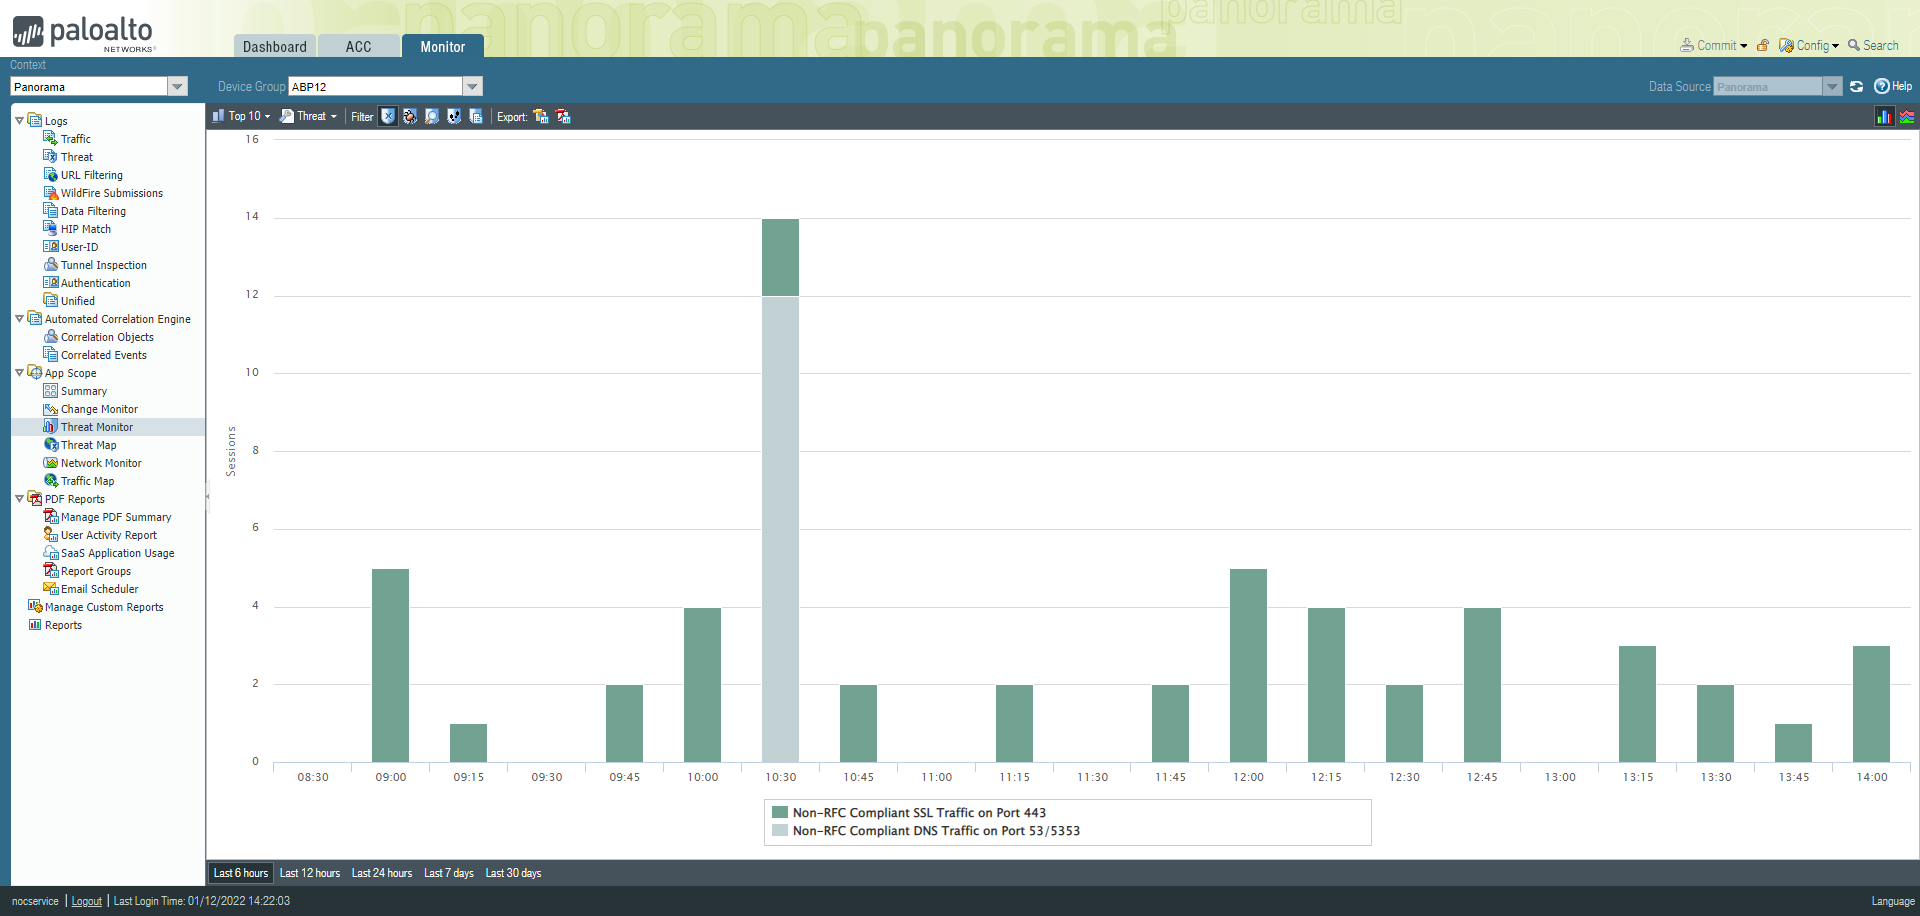
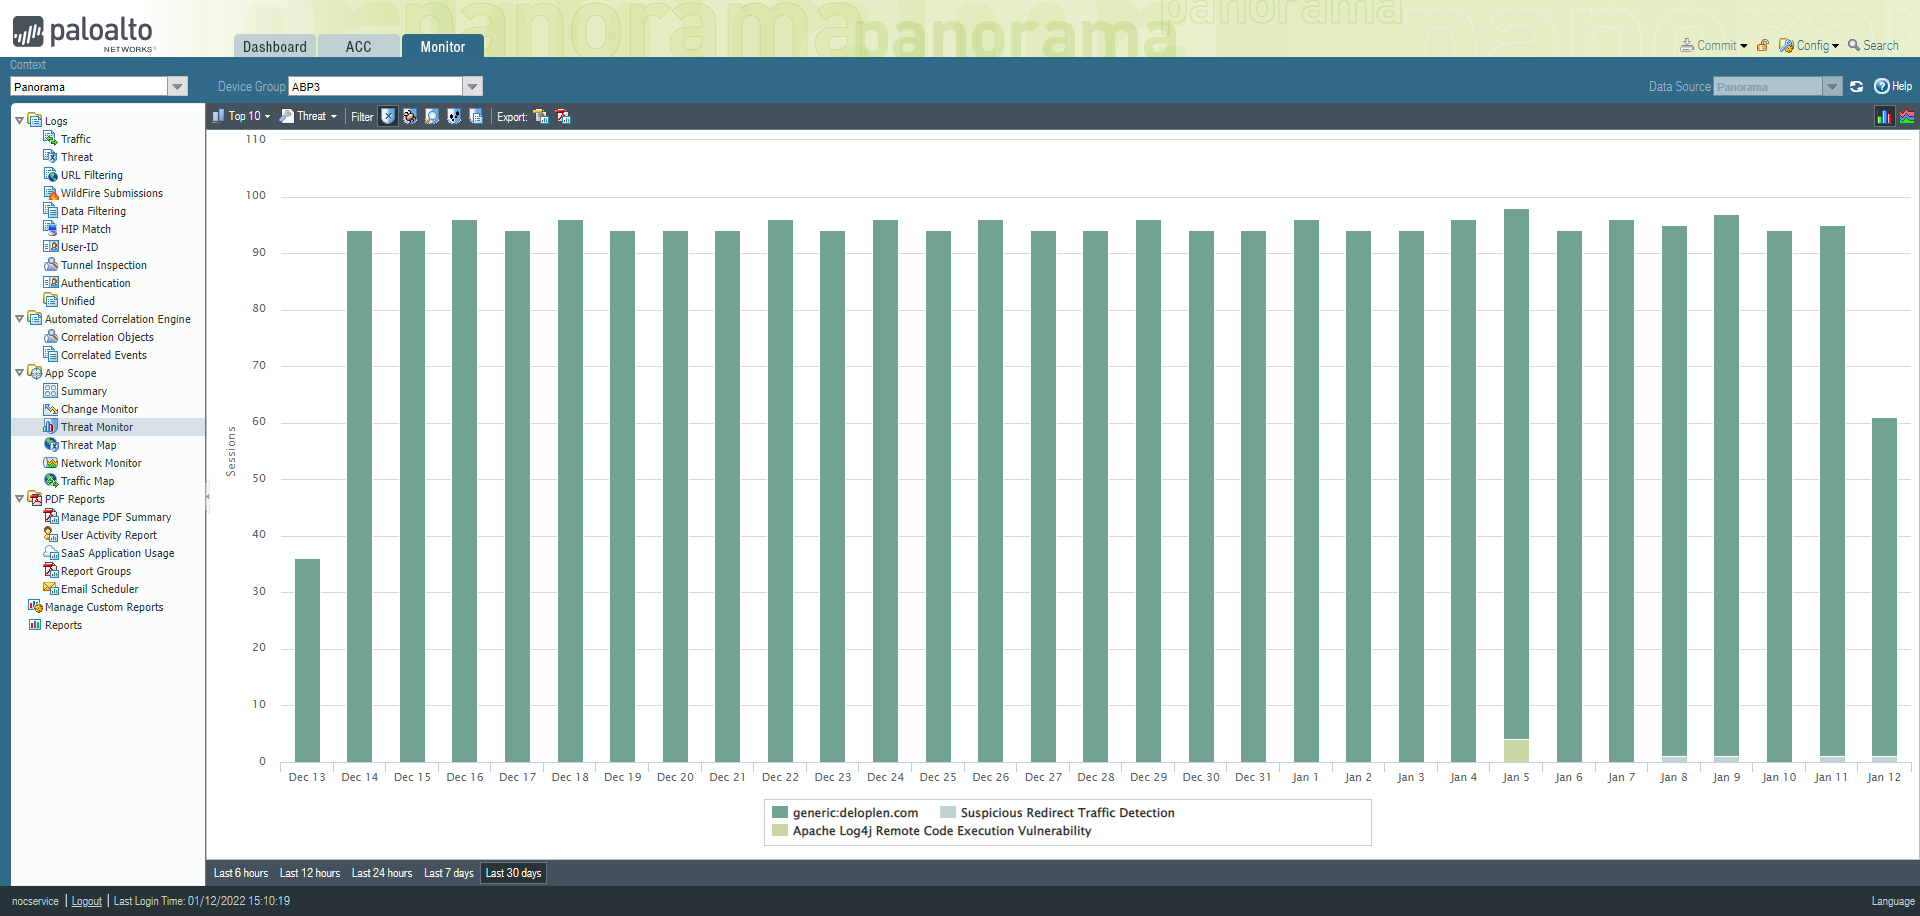
capture change

Changed region(s): [[0.125, 0.214, 1.0, 0.917], [0.0938, 0.917, 0.1562, 1.0], [0.25, 0.917, 0.2812, 0.9782]]

diff --git a/getstart.js b/getstart.js
@@ -27,19 +27,20 @@ const { jquery,$} = require('jquery');
         await driver.findElement(By.xpath("/html/body/div[1]/div/div/table/tbody/tr[1]/td/table/tbody/tr/td[2]/table/tbody/tr/td[4]")).click();
         await driver.findElement(By.xpath("/html/body/div[3]/div/div[2]/div[2]/div/div/div[1]/div[2]/div[1]/div/div/div/div/div/div/ul/div/li[4]/ul/li[3]/div/a/span")).click();
 
-        await driver.get("https://172.23.31.1/?#monitor::ABP12::monitor/app-scope/threat-monitor");
+        await driver.get("https://172.23.31.1/?#monitor::ABP3::monitor/app-scope/threat-monitor");
         
         // await driver.wait(until.elementsLocated(By.id("highcharts-3")),100000).isEnabled();
      
         // await driver.findElement(By.id("ext-gen218")).click();
         // await driver.wait(until.elementLocated(By.id("chart_container_parent")),70000);
    
-      
+       
       
         await driver.wait(until.elementsLocated(By.id("ext-gen218")),70000);
-        // await driver.wait(until.elementLocated(By.xpath("/html/body/div[2]/div/div[2]/div/div/div/div[2]/div/div/div/div[2]/div[1]/div/svg/g[6]/g/g/g[1]/text/tspan")),70000);
+        await driver.findElement(By.xpath("/html/body/div[2]/div/div[2]/div/div/div/div[2]/div/div/div/div[3]/div/table/tbody/tr/td[1]/table/tbody/tr/td[5]/table/tbody/tr[2]/td[2]/em/button")).click();
+        
        await driver.wait(until.elementLocated(By.xpath("/html/body/div[2]/div/div[2]/div/div/div/div[2]/div/div/div/div[2]/div[1]/div/svg/g[6]/g/g/g[1]/text/tspan")),50000);
-       
+     
 
     } finally {
         
